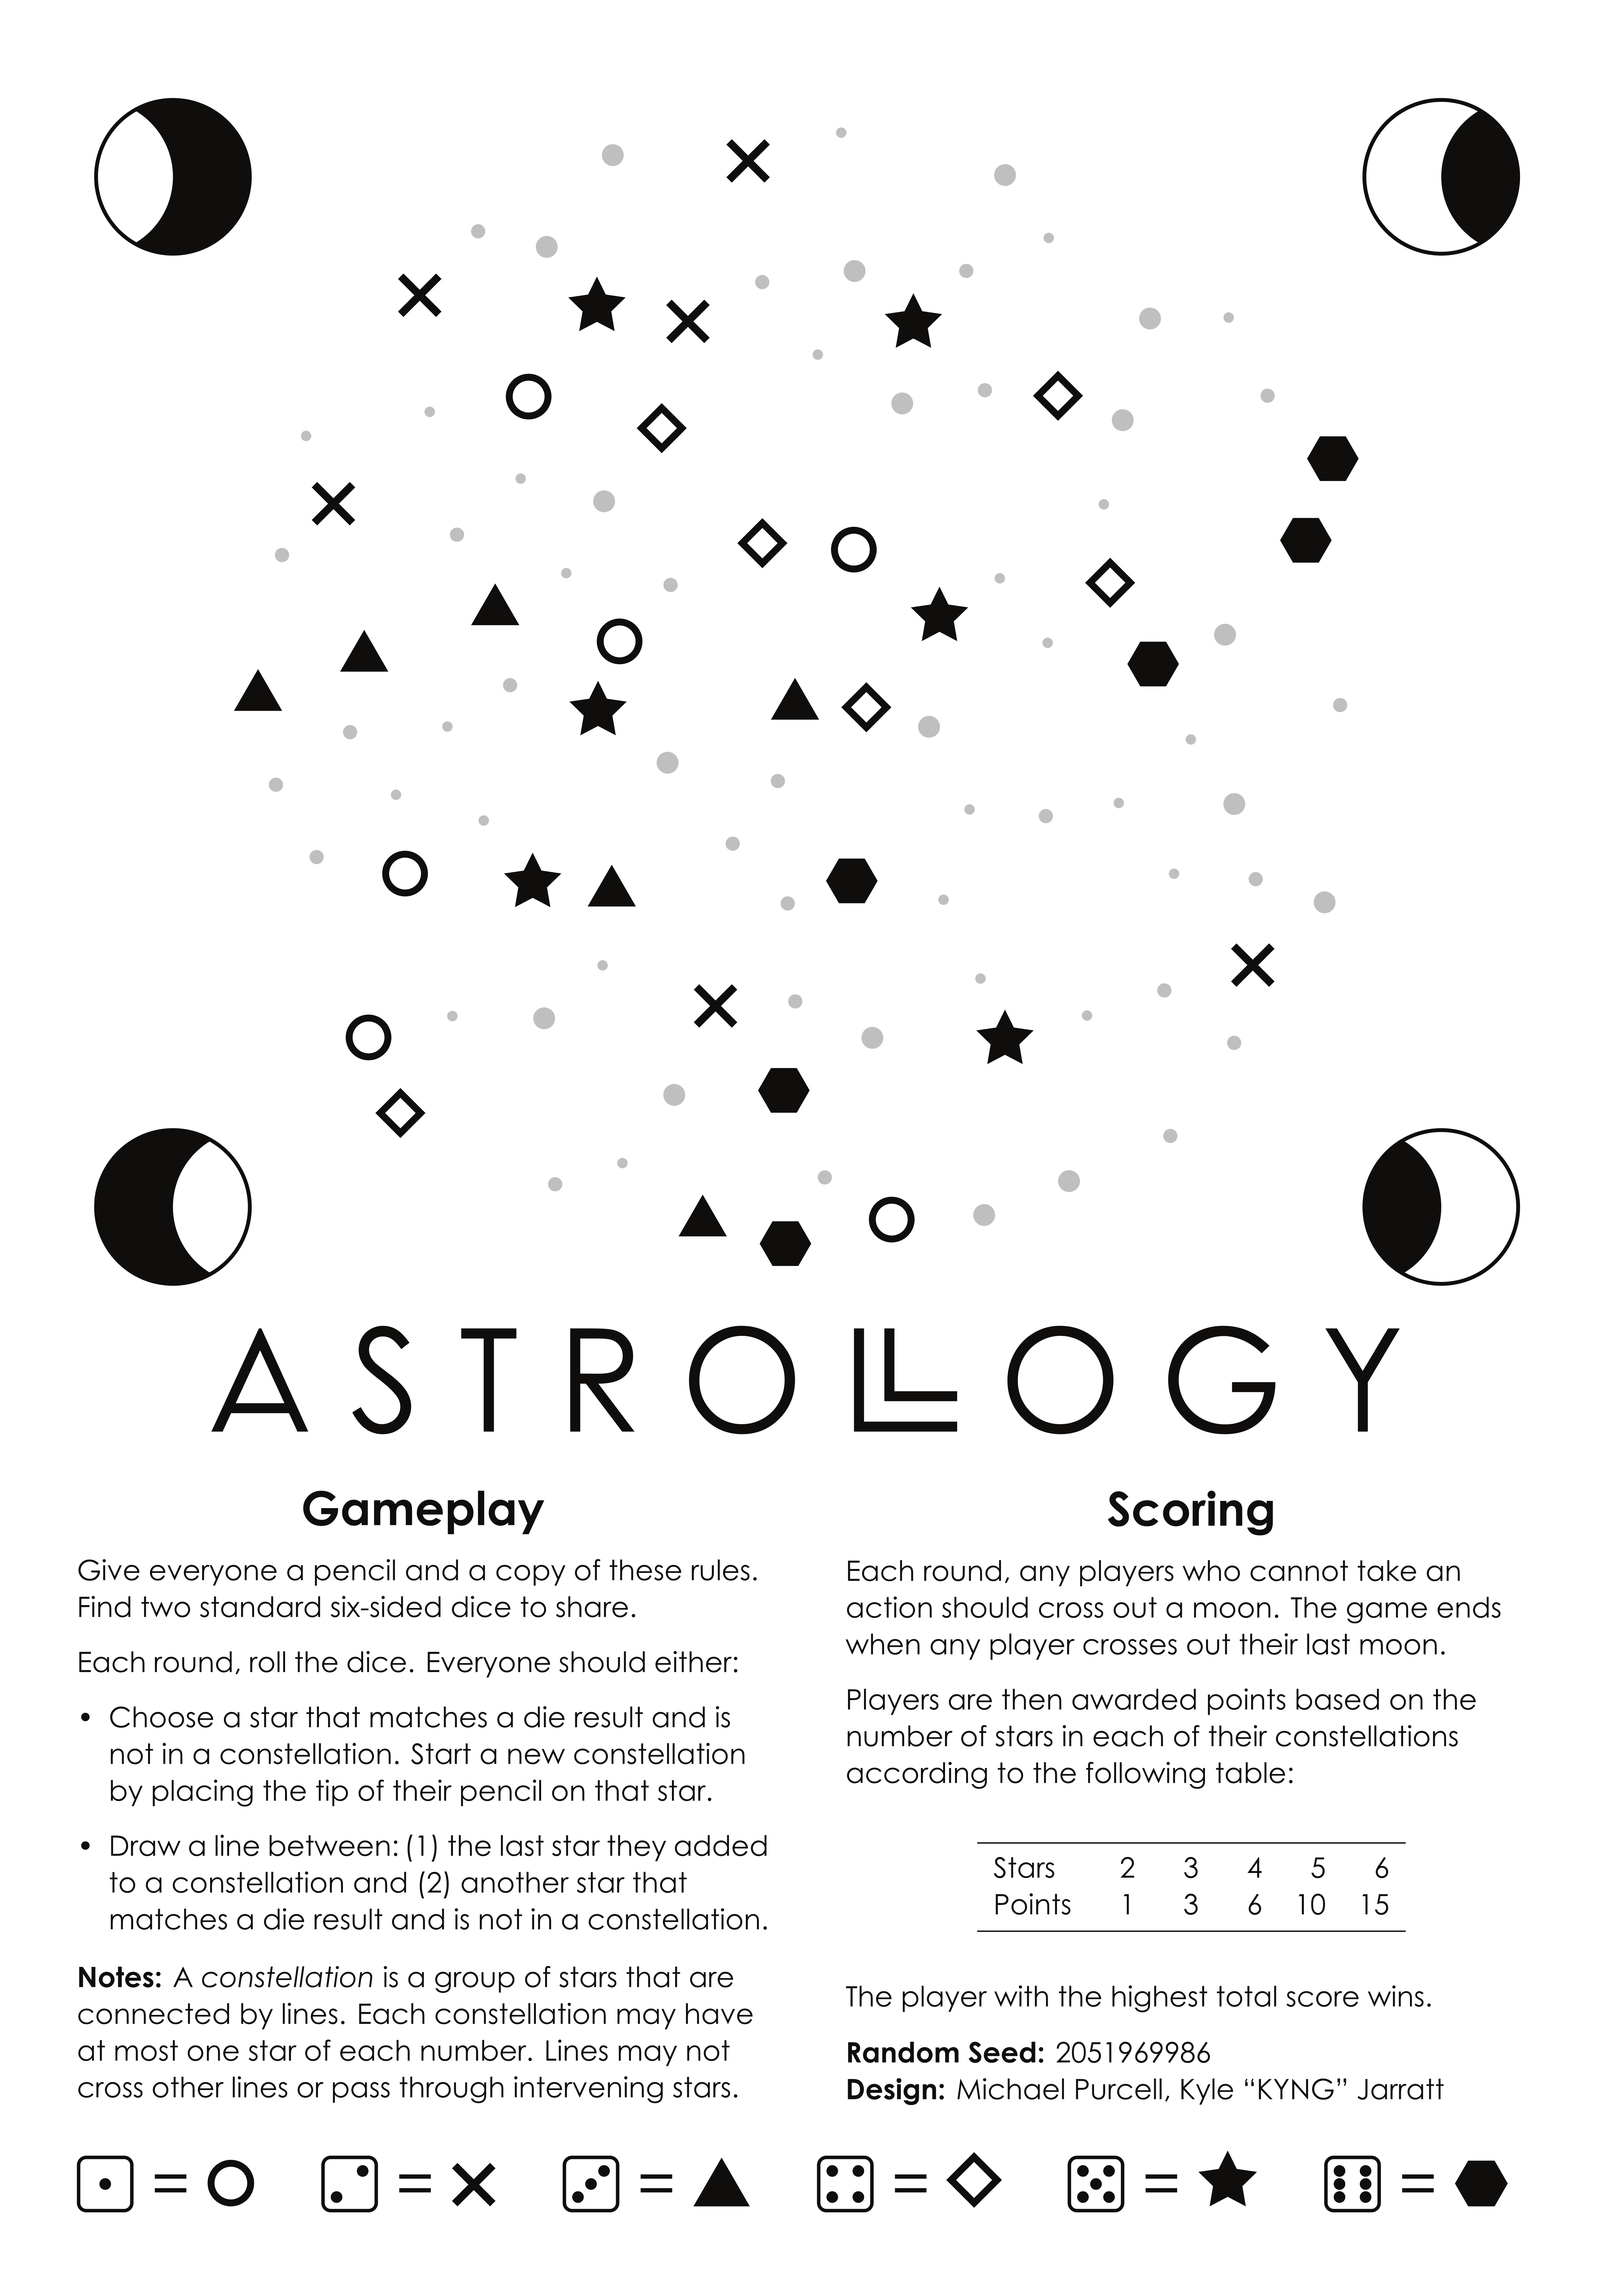
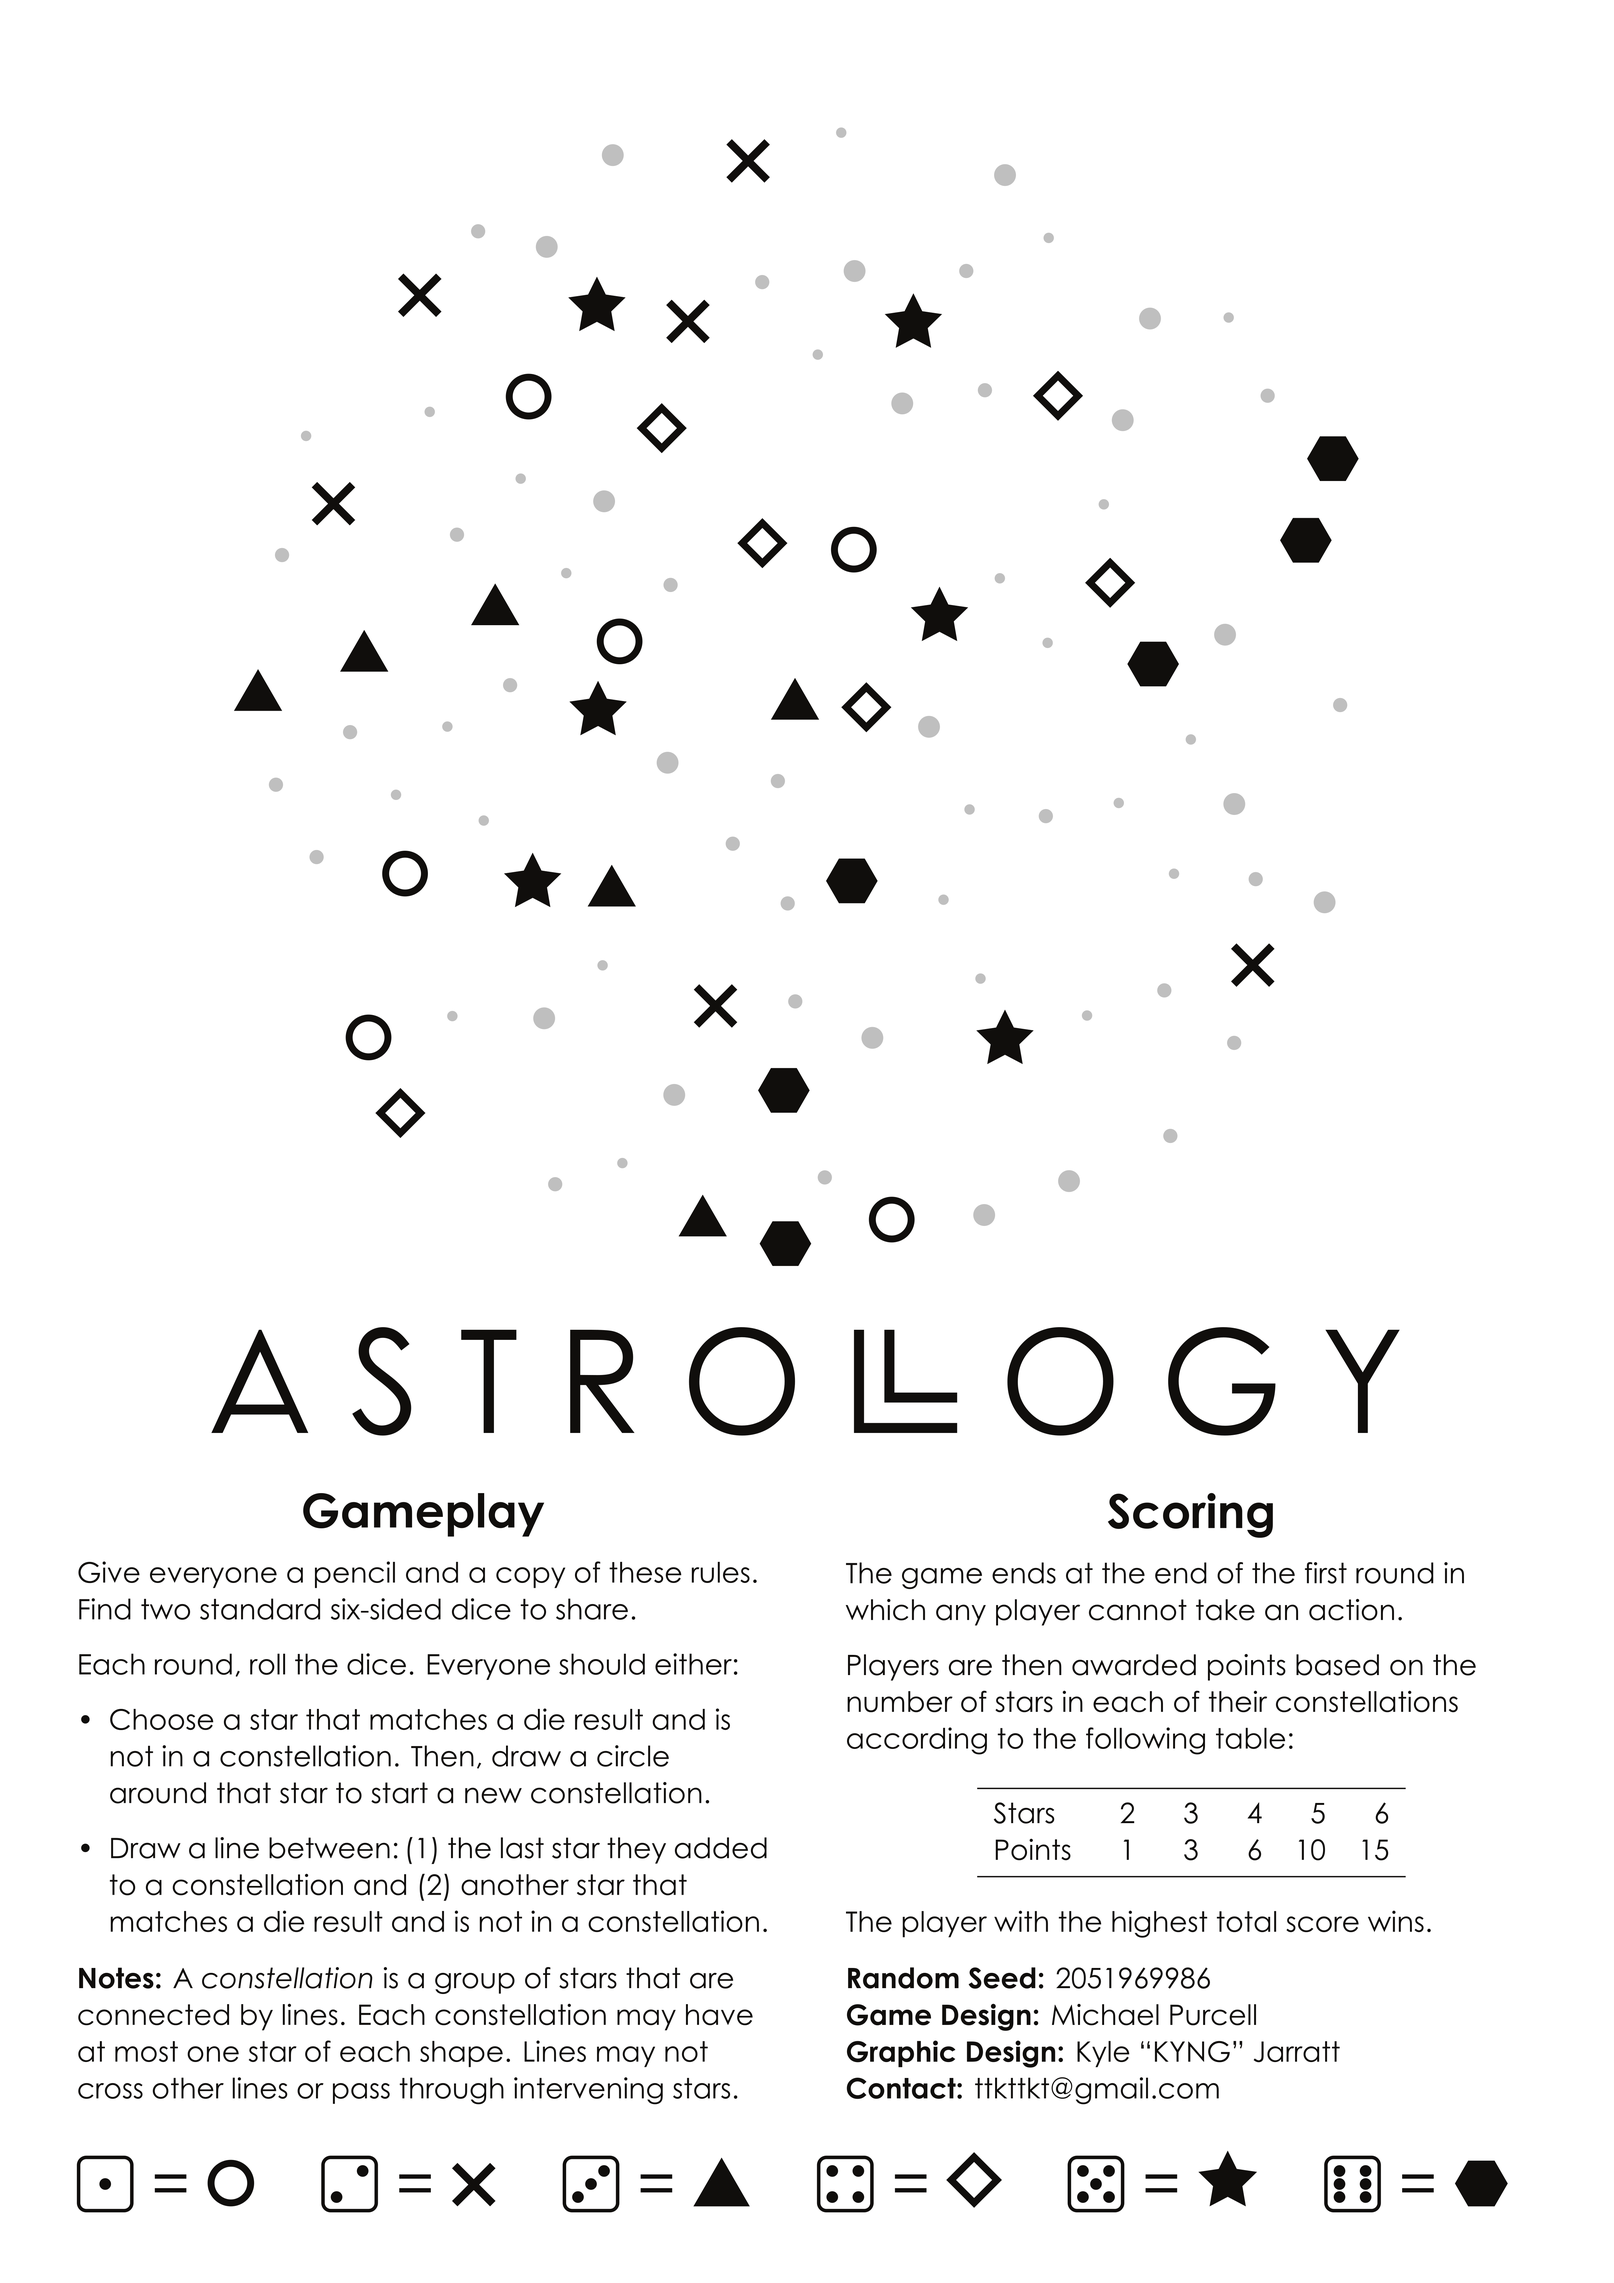
Remove moons and adjust rules layout.

diff --git a/astrollogy_rules_text.tex b/astrollogy_rules_text.tex
@@ -13,19 +13,22 @@ Give everyone a pencil and a copy of these rules. Find two standard six-sided di
 Each round, roll the dice. Everyone should either:
 \begin{itemize}[leftmargin=*]
 %	\vspace{-1ex}
-	\item Choose a star that matches a die result and is not in a constellation. Start a new constellation by placing the tip of their pencil on that star.% with that star.	
+	\item Choose a star that matches a die result and is not in a constellation. Then, draw a circle around that star to start a new constellation.%placing the tip of their pencil on that star.% with that star.	
 	\item Draw a line between:\,(1) the last star they added to~a constellation and (2) another star that matches a die result and is not in a constellation.
 \end{itemize}
 
 
 \vfill
 
-\textbf{Notes:} A \emph{constellation} is a group of stars that are connected by lines. Each constellation may have at most one star of each number. Lines may not cross other lines or pass through intervening stars.\vfill\null\columnbreak
+\textbf{Notes:} A \emph{constellation} is a group of stars that are connected by lines. Each constellation may have at most one star of each shape. Lines may not cross other lines or pass through intervening stars.\vfill\null\columnbreak
 
 \section*{Scoring}
-Each round, any players who cannot take an action should cross out a moon. The game ends when any player crosses out their last moon.
+%Each round, any players who cannot take an action should cross out a moon. The game ends when any player crosses out their last moon.
+The game ends at the end of the first round in which any player cannot take an action.
 
 Players are then awarded points based on the number of stars in each of their constellations according to the following table:
+
+\vspace{-1.35ex}
 
 \begin{center}
 \begin{tabular}{l rrrrr} \toprule[0.5pt]
@@ -33,5 +36,7 @@ Stars & 2 & 3 & 4 & 5 & 6 \\
 Points & \phantom{1}1 & \phantom{1}3 &\phantom{1}6 & 10 & 15 \\ \bottomrule[0.5pt]
 \end{tabular}
 \end{center}
+
+\vspace{-1.35ex}
 
 The player with the highest total score wins.

diff --git a/starfield_generator.py b/starfield_generator.py
@@ -88,10 +88,10 @@ def generate_starfield_tikzpicture(points):
         for point in points[6*i:6*(i+1)]:
             pic.node('', at=tuple(point/6), draw='white', circle=True, fill='lightgray', inner_sep='1.5pt')
 
-    pic.node(r'\drawoneeighthmoon', at ="(-82.5mm,67mm)")
-    pic.node(r'\drawthreeeighthmoon', at ="(82.5mm,67mm)")
-    pic.node(r'\drawfiveeighthmoon', at ="(82.5mm,-67mm)")
-    pic.node(r'\drawseveneighthmoon', at ="(-82.5mm,-67mm)")
+    # pic.node(r'\drawoneeighthmoon', at ="(-82.5mm,67mm)")
+    # pic.node(r'\drawthreeeighthmoon', at ="(82.5mm,67mm)")
+    # pic.node(r'\drawfiveeighthmoon', at ="(82.5mm,-67mm)")
+    # pic.node(r'\drawseveneighthmoon', at ="(-82.5mm,-67mm)")
 
     tikzpicture = pic.code()
 
@@ -144,7 +144,7 @@ def generate_latex_doc(tikzpicture, seed):
     f.close()
     doc.append(NoEscape(rules_text))
     doc.append(Command(r'vfill'))
-    doc.append(NoEscape(r"\textbf{Random Seed:} %i\\\textbf{Design:} Michael~Purcell, Kyle~``KYNG''~Jarratt\vfill\null" % seed))
+    doc.append(NoEscape(r"\textbf{Random Seed:} %i\\\textbf{Game Design:} Michael~Purcell\\\textbf{Graphic Design:} Kyle~``KYNG''~Jarratt\\\textbf{Contact:} ttkttkt@gmail.com\vfill\null" % seed))
     doc.append(Command(r'end{multicols}'))
 
     doc.append(Command(r'vspace{-5mm}'))
